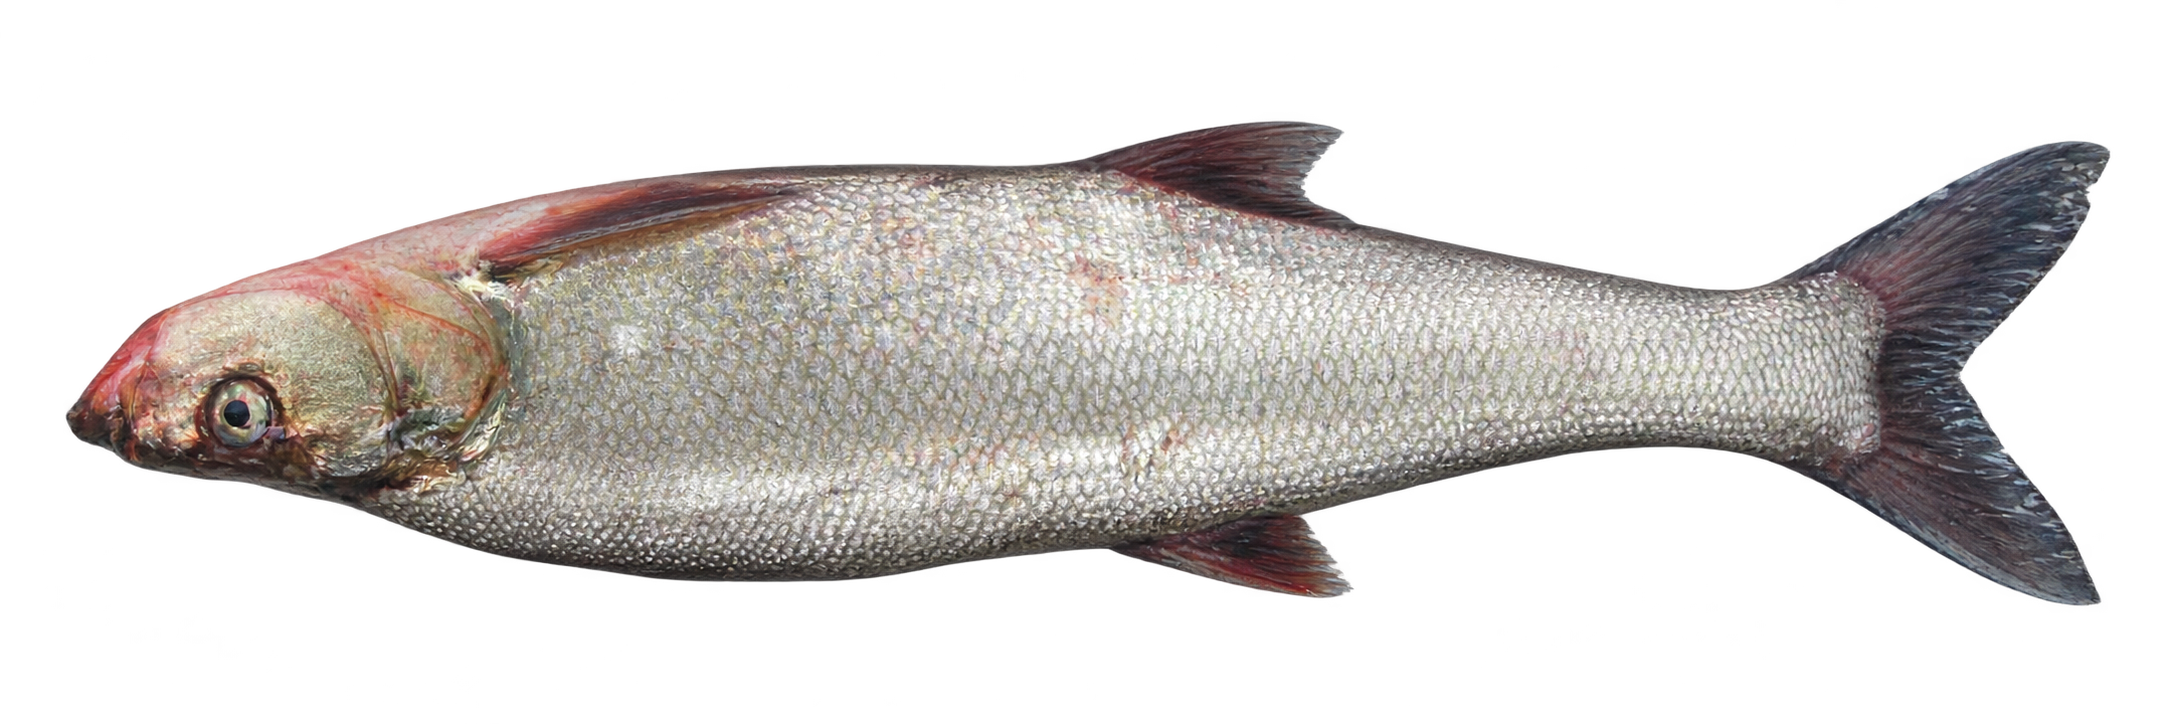
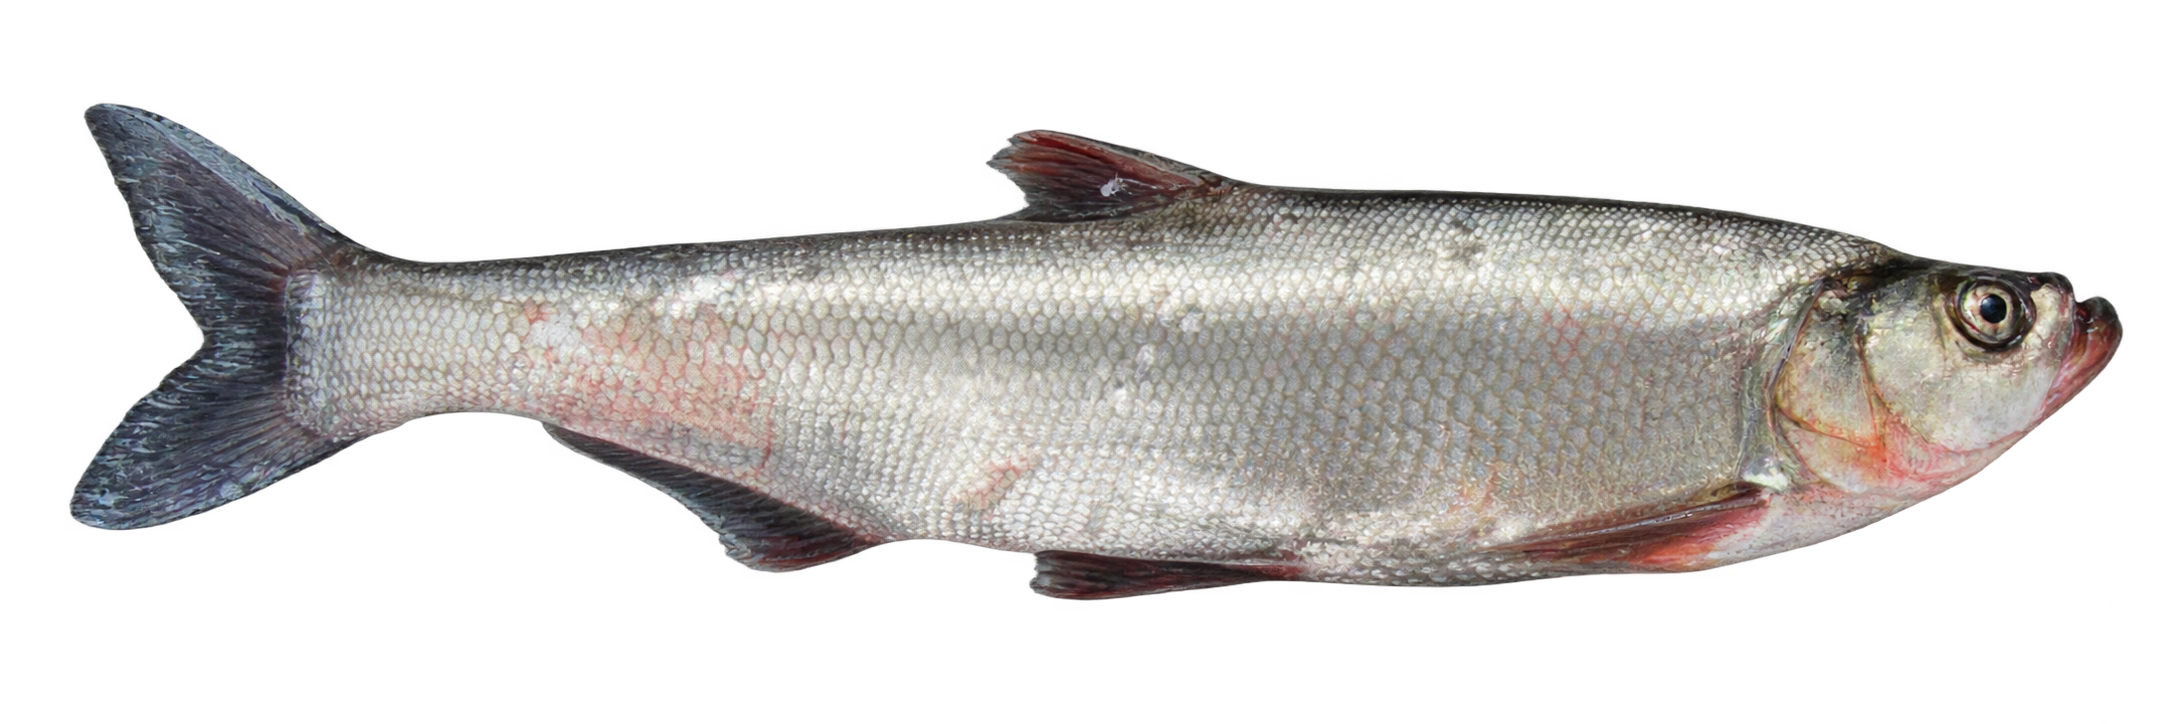
Correct first fish photo orientation

diff --git a/sw.js b/sw.js
@@ -1,4 +1,4 @@
-const CACHE='野路指南-v65';const FILES=['./','./index.html','./style.css?v=21','./visual-refresh.css?v=9','./china-cities.js?v=1','./china-districts.js?v=1','./app.js?v=34','./manifest.webmanifest?v=7','./icon.svg?v=7','./favicon-32.png?v=7','./apple-touch-icon.png?v=7','./icon-192.png?v=7','./icon-512.png?v=7','./icon-maskable-192.png?v=7','./icon-maskable-512.png?v=7','./hero-fisher.jpg','./logo-hupao-white.png',...Array.from({length:24},(_,i)=>`./lure-photos-clean/${String(i+1).padStart(2,'0')}.png`)];
+const CACHE='野路指南-v66';const FILES=['./','./index.html','./style.css?v=21','./visual-refresh.css?v=9','./china-cities.js?v=1','./china-districts.js?v=1','./app.js?v=35','./manifest.webmanifest?v=7','./icon.svg?v=7','./favicon-32.png?v=7','./apple-touch-icon.png?v=7','./icon-192.png?v=7','./icon-512.png?v=7','./icon-maskable-192.png?v=7','./icon-maskable-512.png?v=7','./hero-fisher.jpg','./logo-hupao-white.png',...Array.from({length:24},(_,i)=>`./lure-photos-clean/${String(i+1).padStart(2,'0')}.png`)];
 self.addEventListener('install',e=>e.waitUntil(caches.open(CACHE).then(c=>c.addAll(FILES)).then(()=>self.skipWaiting())));
 self.addEventListener('activate',e=>e.waitUntil(caches.keys().then(keys=>Promise.all(keys.filter(k=>k!==CACHE).map(k=>caches.delete(k)))).then(()=>self.clients.claim())));
 const BYPASS=/(open-meteo\.com)/i;

diff --git a/app.js b/app.js
@@ -87,7 +87,8 @@ function lureArt(l){
 }
 function fishArt(f){
  const number=String(fish.indexOf(f)+1).padStart(2,'0');
- return `<div class="fish-art"><img src="./fish-photos-clean/${number}.png" alt="${f.name}实物照片" loading="lazy" decoding="async" title="${f.name} · 用户上传照片"></div>`;
+ const version=number==='01'?'?v=2':'';
+ return `<div class="fish-art"><img src="./fish-photos-clean/${number}.png${version}" alt="${f.name}实物照片" loading="lazy" decoding="async" title="${f.name} · 用户上传照片"></div>`;
 }
 function init(){
  $('#fishSelect').innerHTML=fish.map((f,i)=>`<option value="${i}">${f.name}</option>`).join('');

diff --git a/index.html b/index.html
@@ -92,6 +92,6 @@
   </nav>
   <script src="china-cities.js?v=1"></script>
   <script src="china-districts.js?v=1"></script>
-  <script src="app.js?v=34"></script>
+  <script src="app.js?v=35"></script>
 </body>
 </html>
